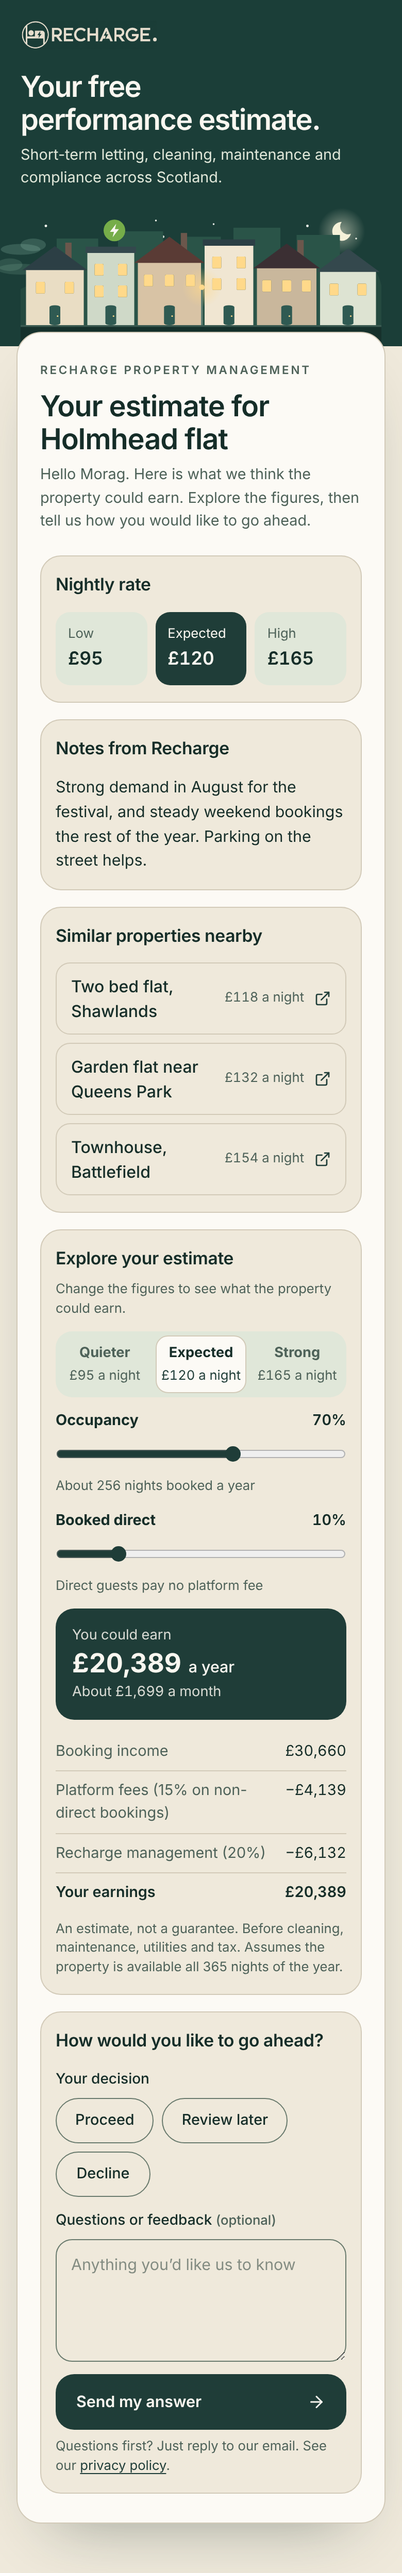
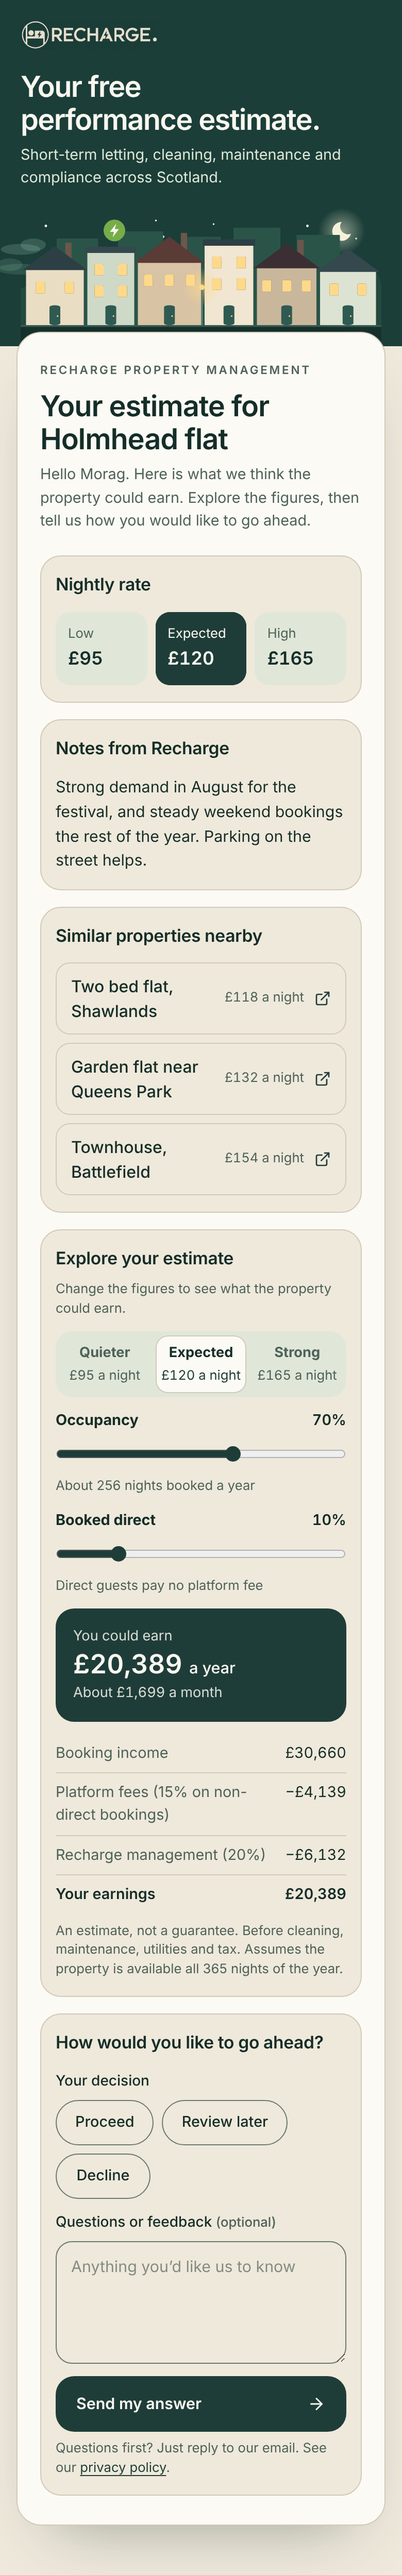
Estimate page: chosen and strong surfaces use the selected tokens; total at SemiBold (E's design gate)
In dark mode the Expected rate, the earnings total and a chosen pill no longer fill solid mint: they
use --rc-selected / --rc-selectedBorder / --rc-onSelected, as the app's pills do (light keeps forest).
The total is font-weight 600. Answer card re-shot with Review later chosen and the date field, light and dark.

Claude-Session: https://claude.ai/code/session_01Msce2EGBrVPZMznwLwpew2

diff --git a/app/globals.css b/app/globals.css
@@ -607,7 +607,7 @@ fieldset.enquiry-field { min-inline-size: 0; margin: 0; padding: 0; border: 0; }
 .enquiry-pill { position: relative; display: inline-flex; align-items: center; gap: 6px; min-height: 44px; min-width: 92px; justify-content: center; padding: 0 18px; border-radius: 999px; border: 1px solid var(--rc-controlBorder); background: var(--rc-background); color: var(--rc-text); font-size: 0.9rem; font-weight: 500; cursor: pointer; transition: background-color 180ms ease, color 180ms ease, border-color 180ms ease, scale 200ms cubic-bezier(.2, 0, 0, 1); }
 .enquiry-pill input { position: absolute; opacity: 0; pointer-events: none; }
 .enquiry-pill:has(input:focus-visible) { box-shadow: 0 0 0 3px color-mix(in srgb, var(--rc-primary) 25%, transparent); }
-.enquiry-pill[data-on] { background: var(--rc-primary); border-color: var(--rc-primary); color: var(--rc-onPrimary); }
+.enquiry-pill[data-on] { background: var(--rc-selected); border-color: var(--rc-selectedBorder); color: var(--rc-onSelected); }
 .enquiry-pill:active { scale: .97; }
 .enquiry-drop { display: grid; justify-items: center; gap: 6px; padding: 26px 16px; border-radius: 18px; border: 1.5px dashed var(--rc-controlBorder); background: var(--rc-background); text-align: center; color: var(--rc-muted); cursor: pointer; transition: border-color 180ms ease, background-color 180ms ease, translate 200ms ease; }
 .enquiry-drop strong { color: var(--rc-text); font-size: 0.95rem; }
@@ -641,8 +641,8 @@ fieldset.enquiry-field { min-inline-size: 0; margin: 0; padding: 0; border: 0; }
 .estimate-rates > div { display: grid; gap: 2px; padding: 12px; border-radius: 14px; background: var(--rc-wash); min-width: 0; }
 .estimate-rates dt { font-size: 0.8rem; color: var(--rc-muted); }
 .estimate-rates dd { margin: 0; font-size: 1.1rem; font-weight: 600; color: var(--rc-text); font-variant-numeric: tabular-nums; }
-.estimate-rates > div[data-strong] { background: var(--rc-primary); }
-.estimate-rates > div[data-strong] :is(dt, dd) { color: var(--rc-onPrimary); }
+.estimate-rates > div[data-strong] { background: var(--rc-selected); box-shadow: inset 0 0 0 1px var(--rc-selectedBorder); }
+.estimate-rates > div[data-strong] :is(dt, dd) { color: var(--rc-onSelected); }
 .estimate-notes { white-space: pre-line; font-size: 0.95rem; line-height: 1.55; color: var(--rc-text); overflow-wrap: anywhere; }
 .estimate-similar { display: grid; gap: 8px; margin: 0; padding: 0; list-style: none; }
 .estimate-similar a { display: flex; align-items: center; gap: 10px; min-height: 48px; padding: 10px 14px; border-radius: 14px; border: 1px solid var(--rc-border); color: var(--rc-text); text-decoration: none; }
@@ -664,9 +664,9 @@ fieldset.enquiry-field { min-inline-size: 0; margin: 0; padding: 0; border: 0; }
 .estimate-range output { font-weight: 600; font-variant-numeric: tabular-nums; }
 .estimate-range input { width: 100%; min-height: 32px; accent-color: var(--rc-primary); }
 .estimate-range small { font-size: 0.8rem; color: var(--rc-muted); }
-.estimate-total { display: grid; gap: 2px; padding: 16px; border-radius: 18px; background: var(--rc-primary); color: var(--rc-onPrimary); }
+.estimate-total { display: grid; gap: 2px; padding: 16px; border-radius: 18px; border: 1px solid var(--rc-selectedBorder); background: var(--rc-selected); color: var(--rc-onSelected); }
 .estimate-total > span { font-size: 0.85rem; opacity: 0.85; font-variant-numeric: tabular-nums; }
-.estimate-total strong { font-size: 2rem; line-height: 1.2; font-weight: 700; font-variant-numeric: tabular-nums; }
+.estimate-total strong { font-size: 2rem; line-height: 1.2; font-weight: 600; font-variant-numeric: tabular-nums; }
 .estimate-total strong small { font-size: 0.95rem; font-weight: 500; }
 .estimate-lines { display: grid; margin: 0; }
 .estimate-lines > div { display: flex; justify-content: space-between; gap: 12px; padding: 8px 0; border-bottom: 1px solid var(--rc-border); font-size: 0.9rem; }
